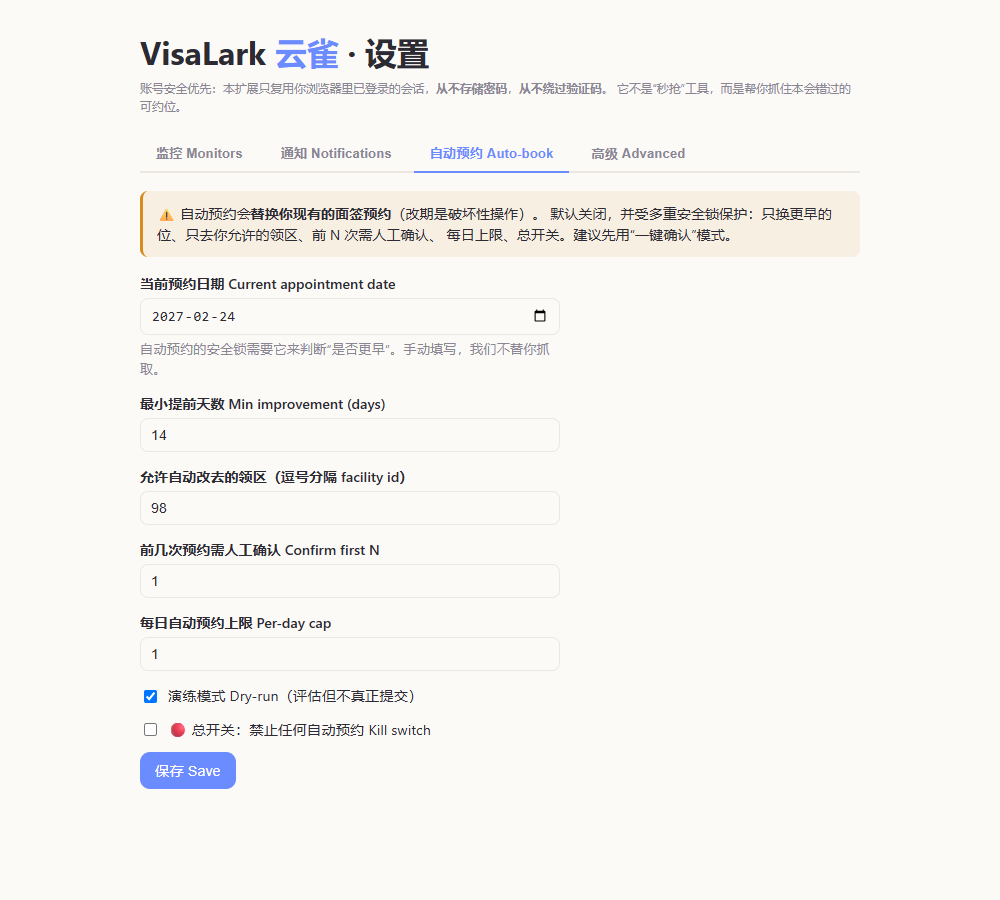
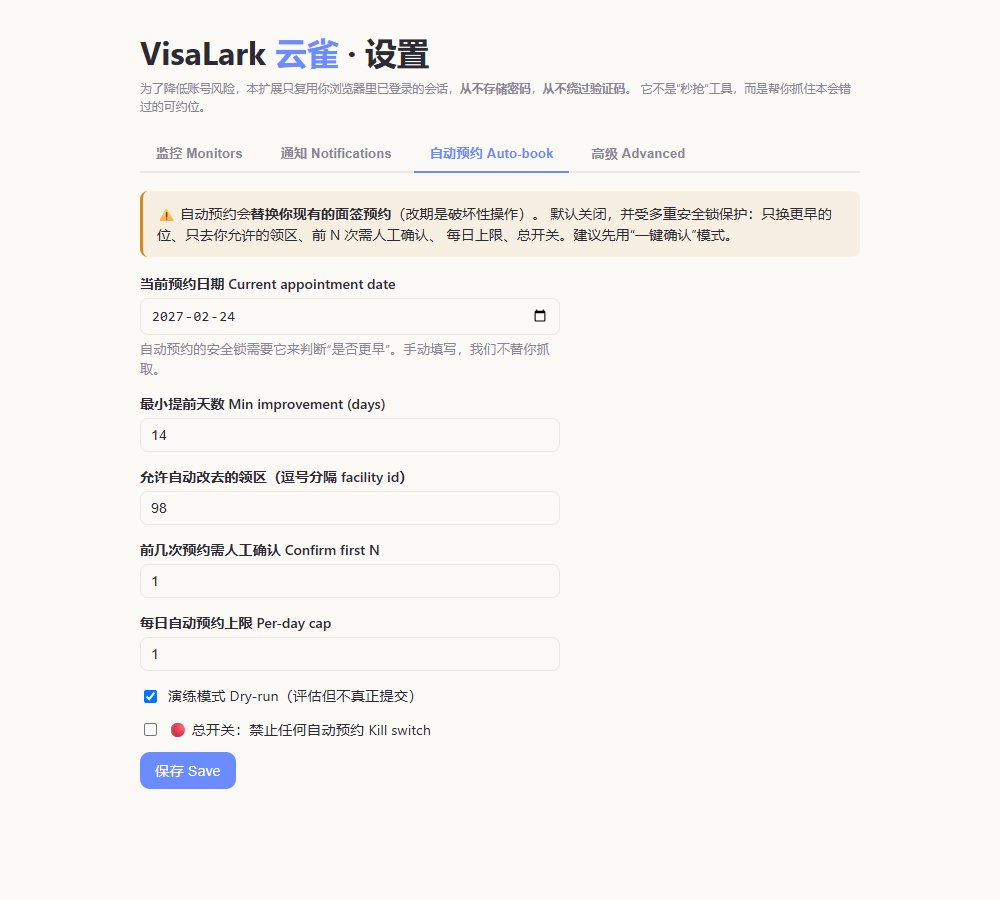
Drop "account-safe" from the popup tagline
The popup said 账号安全的美签监控 ("account-safe US visa monitor"), which
the README's own warning contradicts. It now reads 美签预约监控, and the
options page says the extension lowers the risk instead of putting account
safety first. Screenshots re-captured from the built extension.

Changed region(s): [[0.124, 0.0933, 0.868, 0.1244]]

diff --git a/apps/extension/options.html b/apps/extension/options.html
@@ -11,7 +11,7 @@
       <header class="page-head">
         <h1>VisaLark <span class="zh">云雀</span> · 设置</h1>
         <p class="tagline">
-          账号安全优先：本扩展只复用你浏览器里已登录的会话，<strong>从不存储密码</strong>，<strong>从不绕过验证码</strong>。
+          为了降低账号风险，本扩展只复用你浏览器里已登录的会话，<strong>从不存储密码</strong>，<strong>从不绕过验证码</strong>。
           它不是“秒抢”工具，而是帮你抓住本会错过的可约位。
         </p>
       </header>

diff --git a/apps/extension/popup.html b/apps/extension/popup.html
@@ -11,7 +11,7 @@
       <img src="icons/icon48.png" alt="VisaLark mascot" class="logo" />
       <div>
         <h1>VisaLark <span class="zh">云雀</span></h1>
-        <p class="tagline">账号安全的美签监控 · 不存密码 · 不绕验证</p>
+        <p class="tagline">美签预约监控 · 不存密码 · 不绕验证</p>
       </div>
     </header>
 
